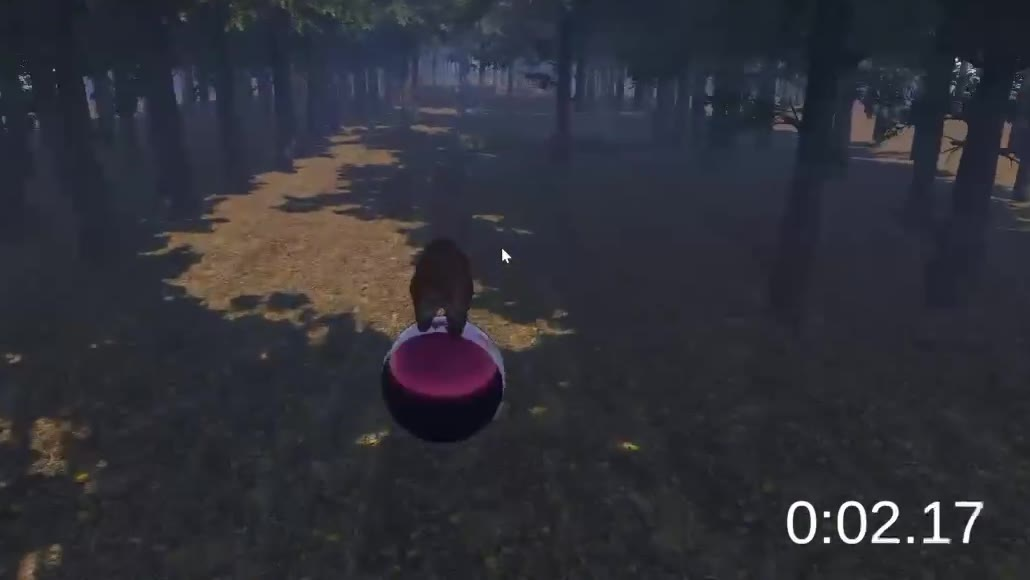
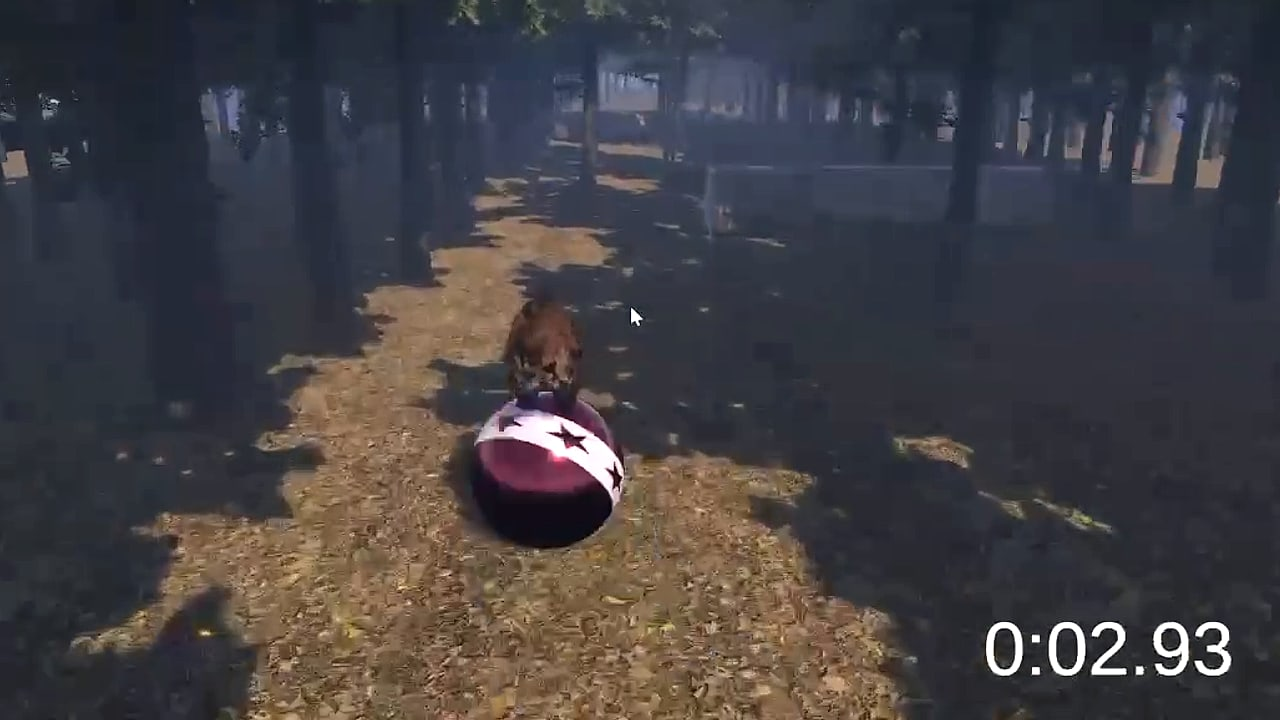
TEAM5・6 の作品ページのいちばん上を動画のきれいなコマに、TEAM6 のカメラの写真は写真欄へ

diff --git a/data.js b/data.js
@@ -517,7 +517,7 @@ const TEAMS = [
     "subtitle": "〜遅刻寸前、森を駆け抜けろ〜",
     "catch": "ゆれて、よけて、まにあって！",
     "icon": "images/team5-icon.jpg?v=a2768b1d",
-    "image": "images/team5-hero.jpg?v=e3daeeb8",
+    "image": "images/team5-hero.jpg?v=95ec1413",
     "summary": "サーカス団に入って50年、熊さんは誰もが知っている大人気スターです。ある朝、目を覚まして時計を見ると……大変です！ もうすぐ開演の時間です！\nプレイヤーはバランスボードに乗って熊さんを操作し、障害物をよけながらサーカス会場を目指しましょう！",
     "howto": [
       "バランスボードに乗ります。",
@@ -599,7 +599,7 @@ const TEAMS = [
     "name": "カメレオンの森",
     "catch": "みんなで森を作ろう！",
     "icon": "images/team6-icon.jpg?v=c0e27a5a",
-    "image": "images/team6-hero.jpg?v=384f8f1e",
+    "image": "images/team6-hero.jpg?v=0f63e659",
     "summary": "「カメレオンの森」は、カメラの前で手を動かして、荒れた土地を森に育てていく育成シミュレーションです。画面にさわらず、手を「かざす・にぎる・ふる」だけで遊べます。\n来てくれた人みんなで1つの森を育てていくので、あなたが遊んだぶんも森に残ります。",
     "howto": [
       "カメラの前に手をかざすと、画面の手のカーソルが動きます。",
@@ -669,6 +669,11 @@ const TEAMS = [
         "type": "image",
         "src": "images/team6-order.jpg?v=6d3c3826",
         "caption": "動物・色・名前をえらぶ画面"
+      },
+      {
+        "type": "image",
+        "src": "images/team6-camera.jpg?v=9bd9812f",
+        "caption": "手の動きをとらえるWebカメラ"
       }
     ]
   }

diff --git a/index.html b/index.html
@@ -19,7 +19,7 @@
 </head>
 <body>
 <div id="app"></div>
-<script src="data.js?v=3a062307"></script>
+<script src="data.js?v=69eeffe6"></script>
 <script src="map.js?v=741b1af8"></script>
 <script src="app.js?v=e907adb4"></script>
 </body>
